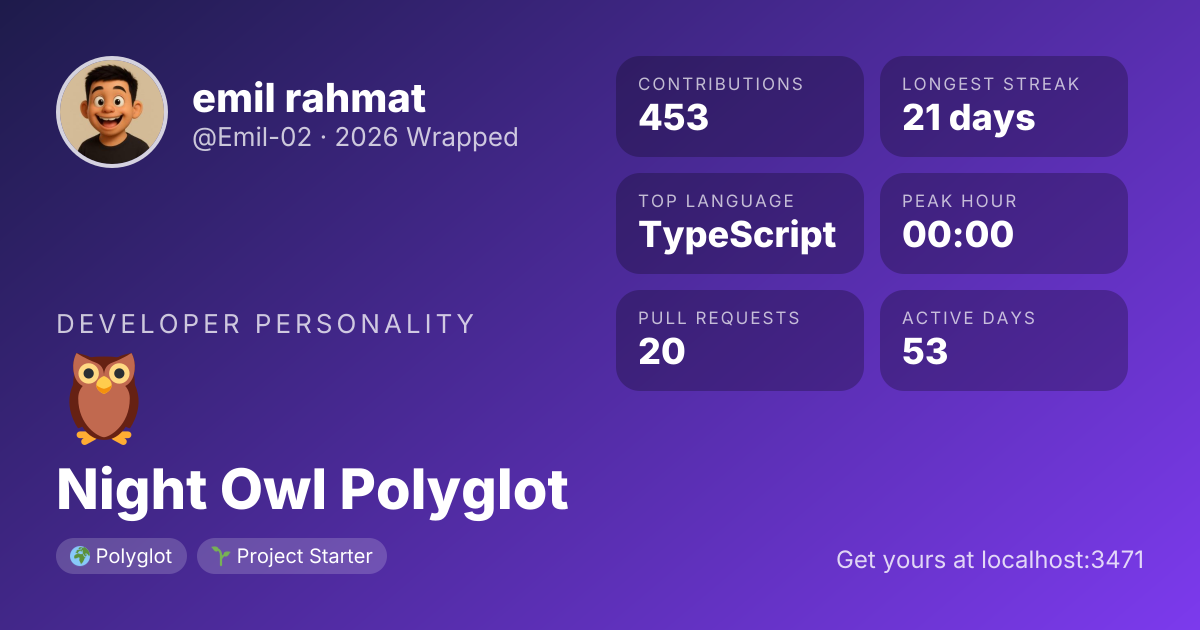
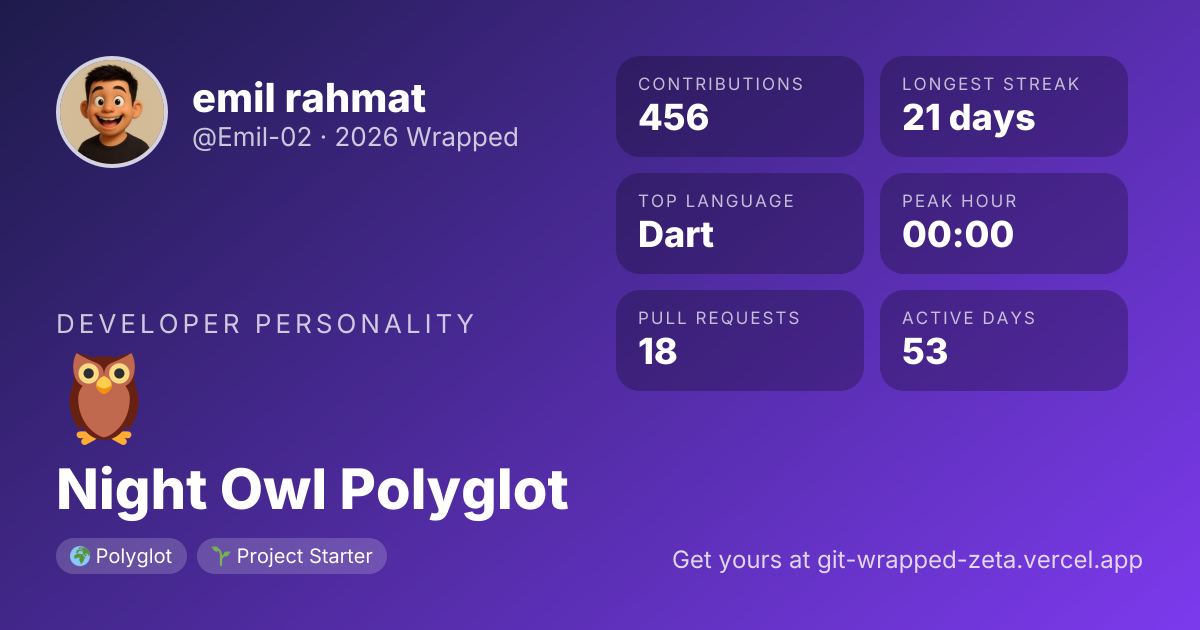
chore: point README to live site and match session to token lifetime
- Link 'Get your wrapped' to https://git-wrapped-zeta.vercel.app
- Regenerate docs/og-example.png from the production domain
- Shorten session cookie to 8 hours to match expiring GitHub user tokens

diff --git a/src/lib/auth/session.ts b/src/lib/auth/session.ts
@@ -7,7 +7,8 @@ import "server-only";
 
 export const SESSION_COOKIE = "gw_session";
 export const STATE_COOKIE = "gw_oauth_state";
-export const SESSION_MAX_AGE = 60 * 60 * 24; // 1 day
+// Matches GitHub's lifetime for expiring user access tokens.
+export const SESSION_MAX_AGE = 60 * 60 * 8;
 
 export interface Session {
   token: string;

diff --git a/README.md b/README.md
@@ -6,7 +6,7 @@
 
 Your contributions, streaks, languages, coding hours, and the developer personality you didn't know you had. All of it as Stories-style slides you can share.
 
-[**Get your wrapped →**](https://github.com/Emil-02/git-wrapped) · [Add a personality](#-add-your-own-personality) · [Self-host](#-self-hosting)
+[**Get your wrapped →**](https://git-wrapped-zeta.vercel.app) · [Add a personality](#-add-your-own-personality) · [Self-host](#-self-hosting)
 
 <img src="docs/og-example.png" alt="Example git-wrapped share card: Night Owl Polyglot" width="720" />
 
@@ -109,7 +109,7 @@ src/
 ## 🔒 Privacy
 
 - Public mode only reads data that is already public on GitHub.
-- In private mode, your token is stored only in an AES-GCM encrypted, httpOnly cookie that expires after 24 hours. It is never written to a database or log. Private wrapped data is never cached on the server.
+- In private mode, your token is stored only in an AES-GCM encrypted, httpOnly cookie that expires after 8 hours. It is never written to a database or log. Private wrapped data is never cached on the server.
 - Private repository names are replaced with "Private repository" everywhere they could be shared.
 
 ## 📄 License
